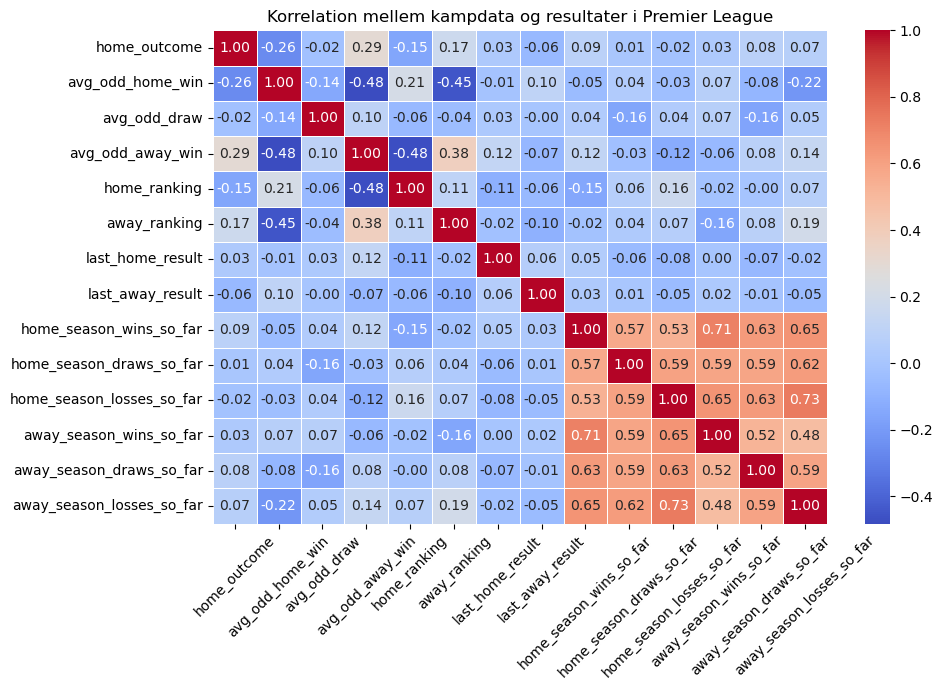
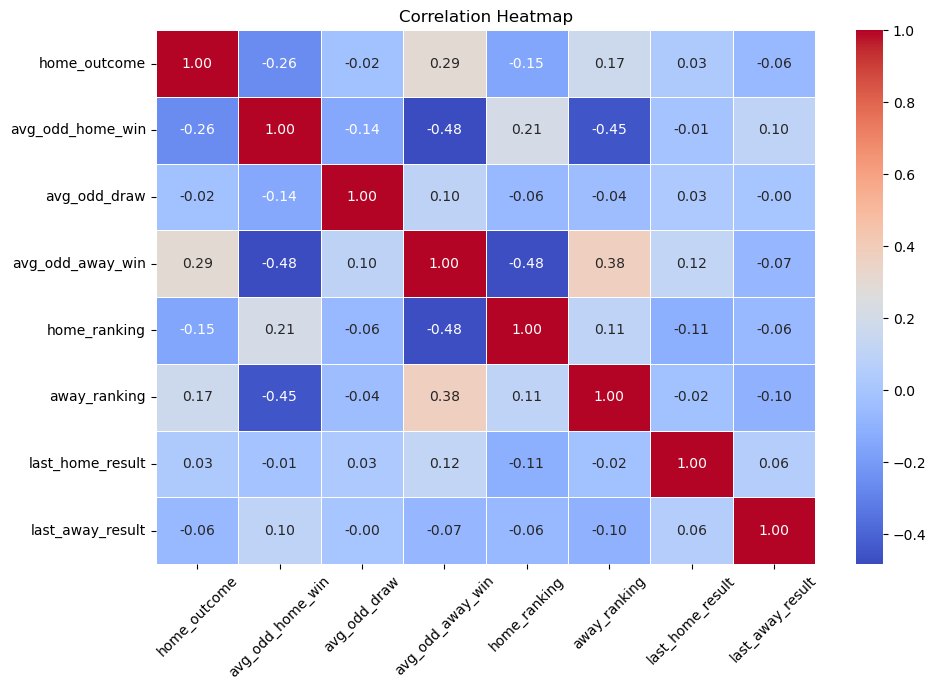
update

diff --git a/Streamlit/Components/exam.py b/Streamlit/Components/exam.py
@@ -75,12 +75,16 @@ def load_exam():
     
     st.image("../Pics/correlation-between-odds-and-outcome.png", caption="", width=1000)
     
-    st.subheader("What could it be and what it means for our models")
-    st.write("1. ")
-    st.write("2. ")
-    st.write("3. ")
+    st.subheader("why could this be?")
+    st.write("1. human betting bias")
+    st.write("2. just faulty data")
+   
     
     st.subheader("")
+    
+    st.subheader("what does it mean for our models?")
+    st.write("one of the key features is misleading")
+
     
     
 
@@ -119,6 +123,12 @@ def load_exam():
     
     st.subheader("")
     
+    st.subheader("Feature Importances (Random Forest)")
+    st.image("../Pics/feature-importances-random-forest.png", caption="", width=900)
+    
+    
+    st.subheader("")
+    
     st.subheader("Analysis of random forest model")
     st.write("1. still biased towards home wins but less than logical regression")
     st.write("2. better at predicting draws")
@@ -127,15 +137,20 @@ def load_exam():
     st.subheader("")
 
     
-    #st.image("../Pics/feature-importances-random-forest.png", caption="", width=900)
-    #st.subheader("")
+    
     
     
     st.subheader("So can we predict the outcome of a match?")
-    st.write("1. ")
-    st.write("1. ")
+    st.write("Yes, but only to a limited degree.")
+    
+    st.subheader("")
     
     
+    
+    st.subheader("How to improve")
+    st.write("1. home odds being reliable")
+    st.write("2. dataset with more match-specific data")
+
     
     
     

diff --git a/Streamlit/Components/more_diagrams.py b/Streamlit/Components/more_diagrams.py
@@ -9,7 +9,6 @@ def load_more_diagrams():
     st.subheader("")
     
     st.image("../Pics/correlation-matrix.png", caption="", width=1200)
-    st.write("maybe remove the season so far")
     
     st.subheader("")
     
